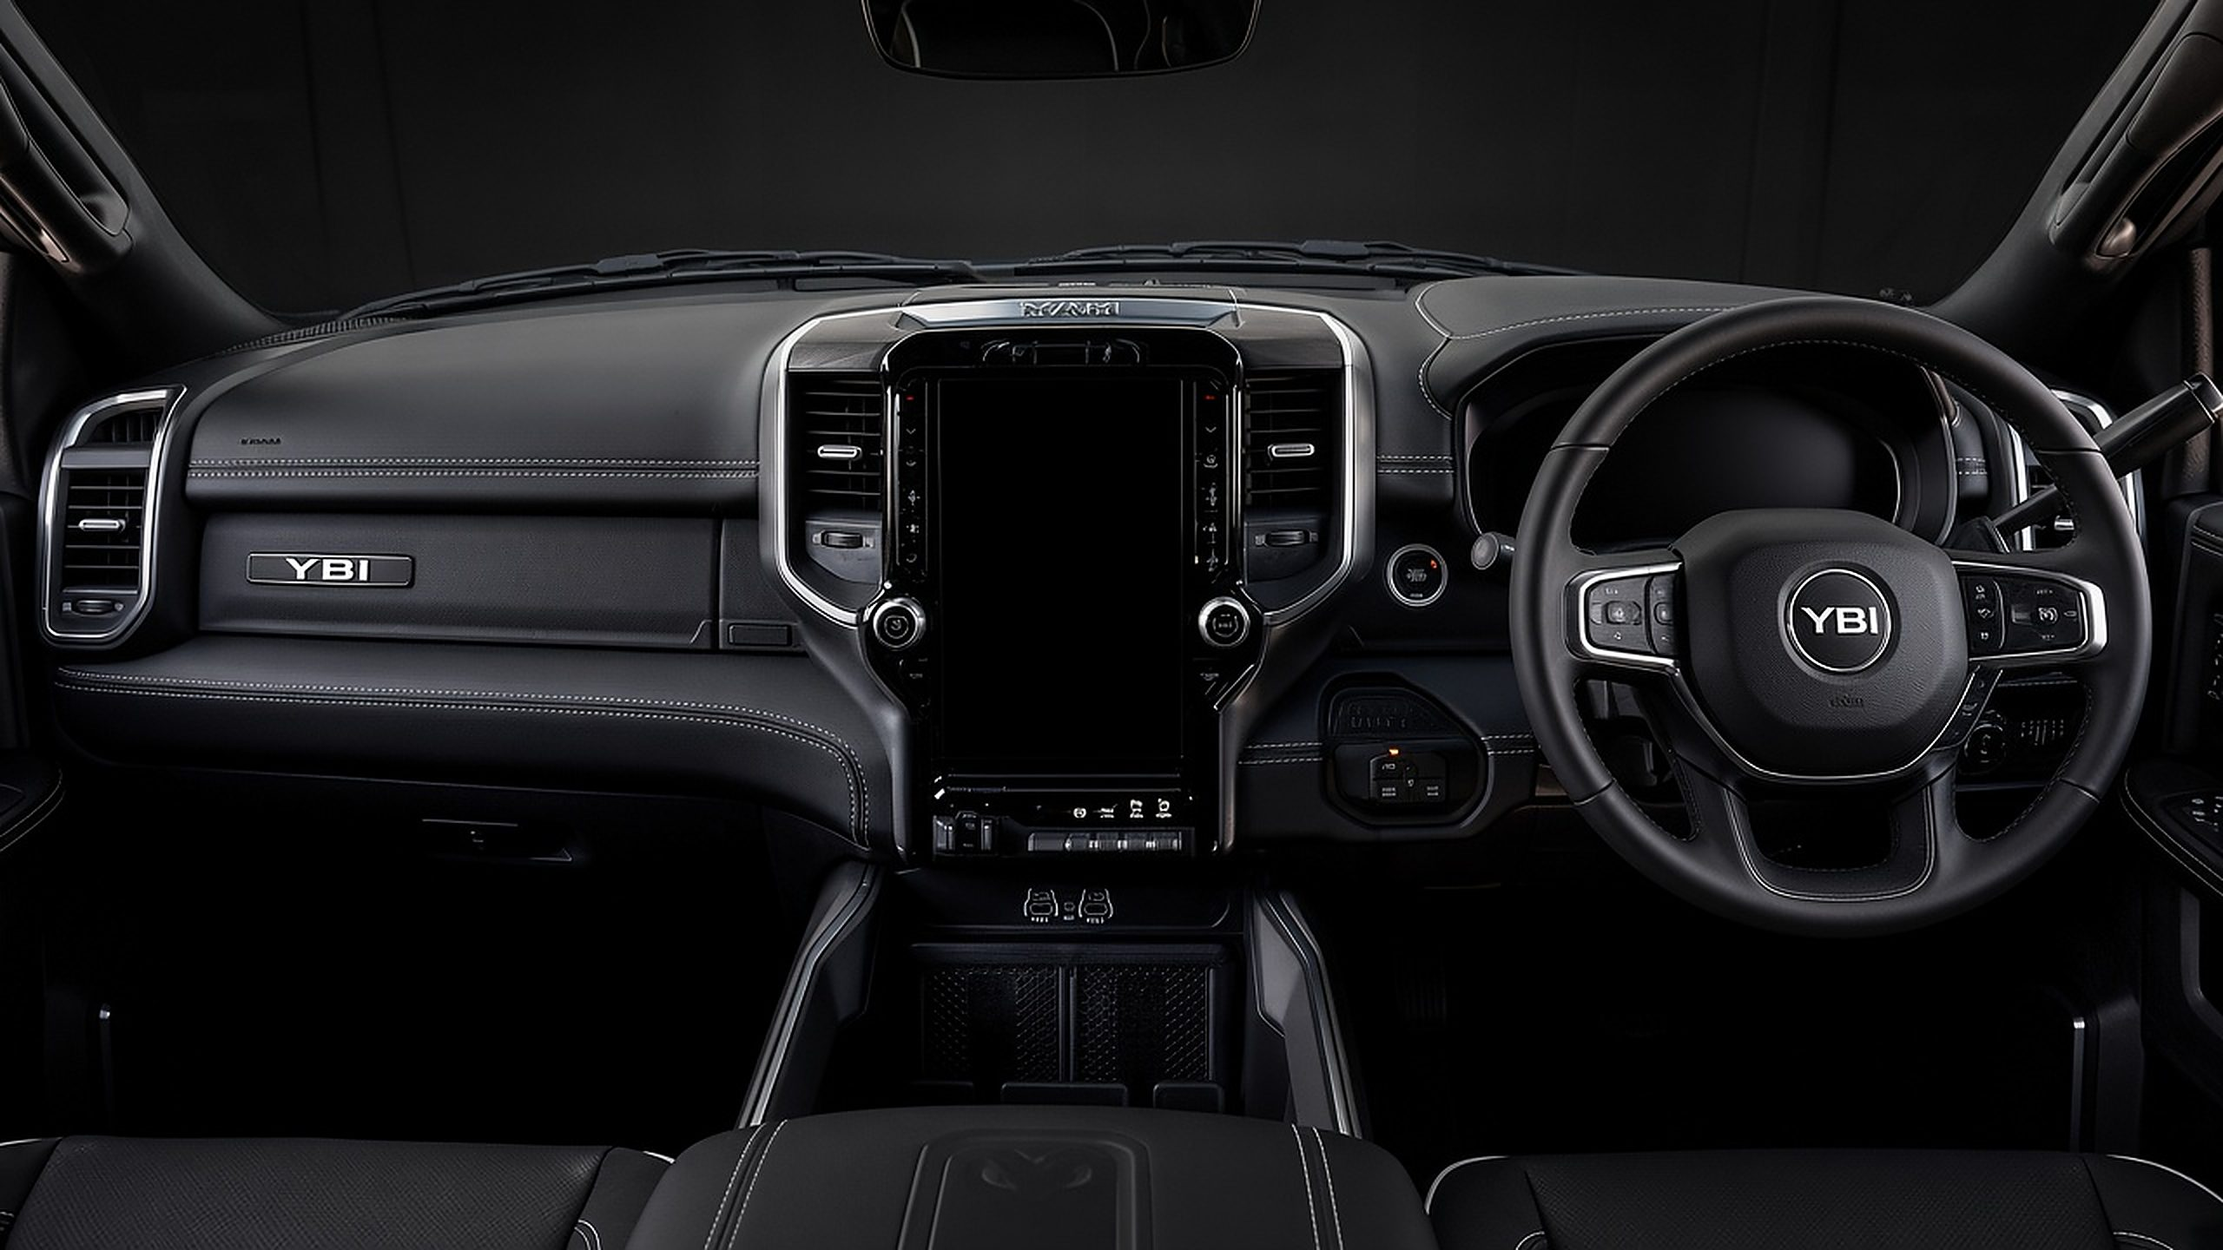
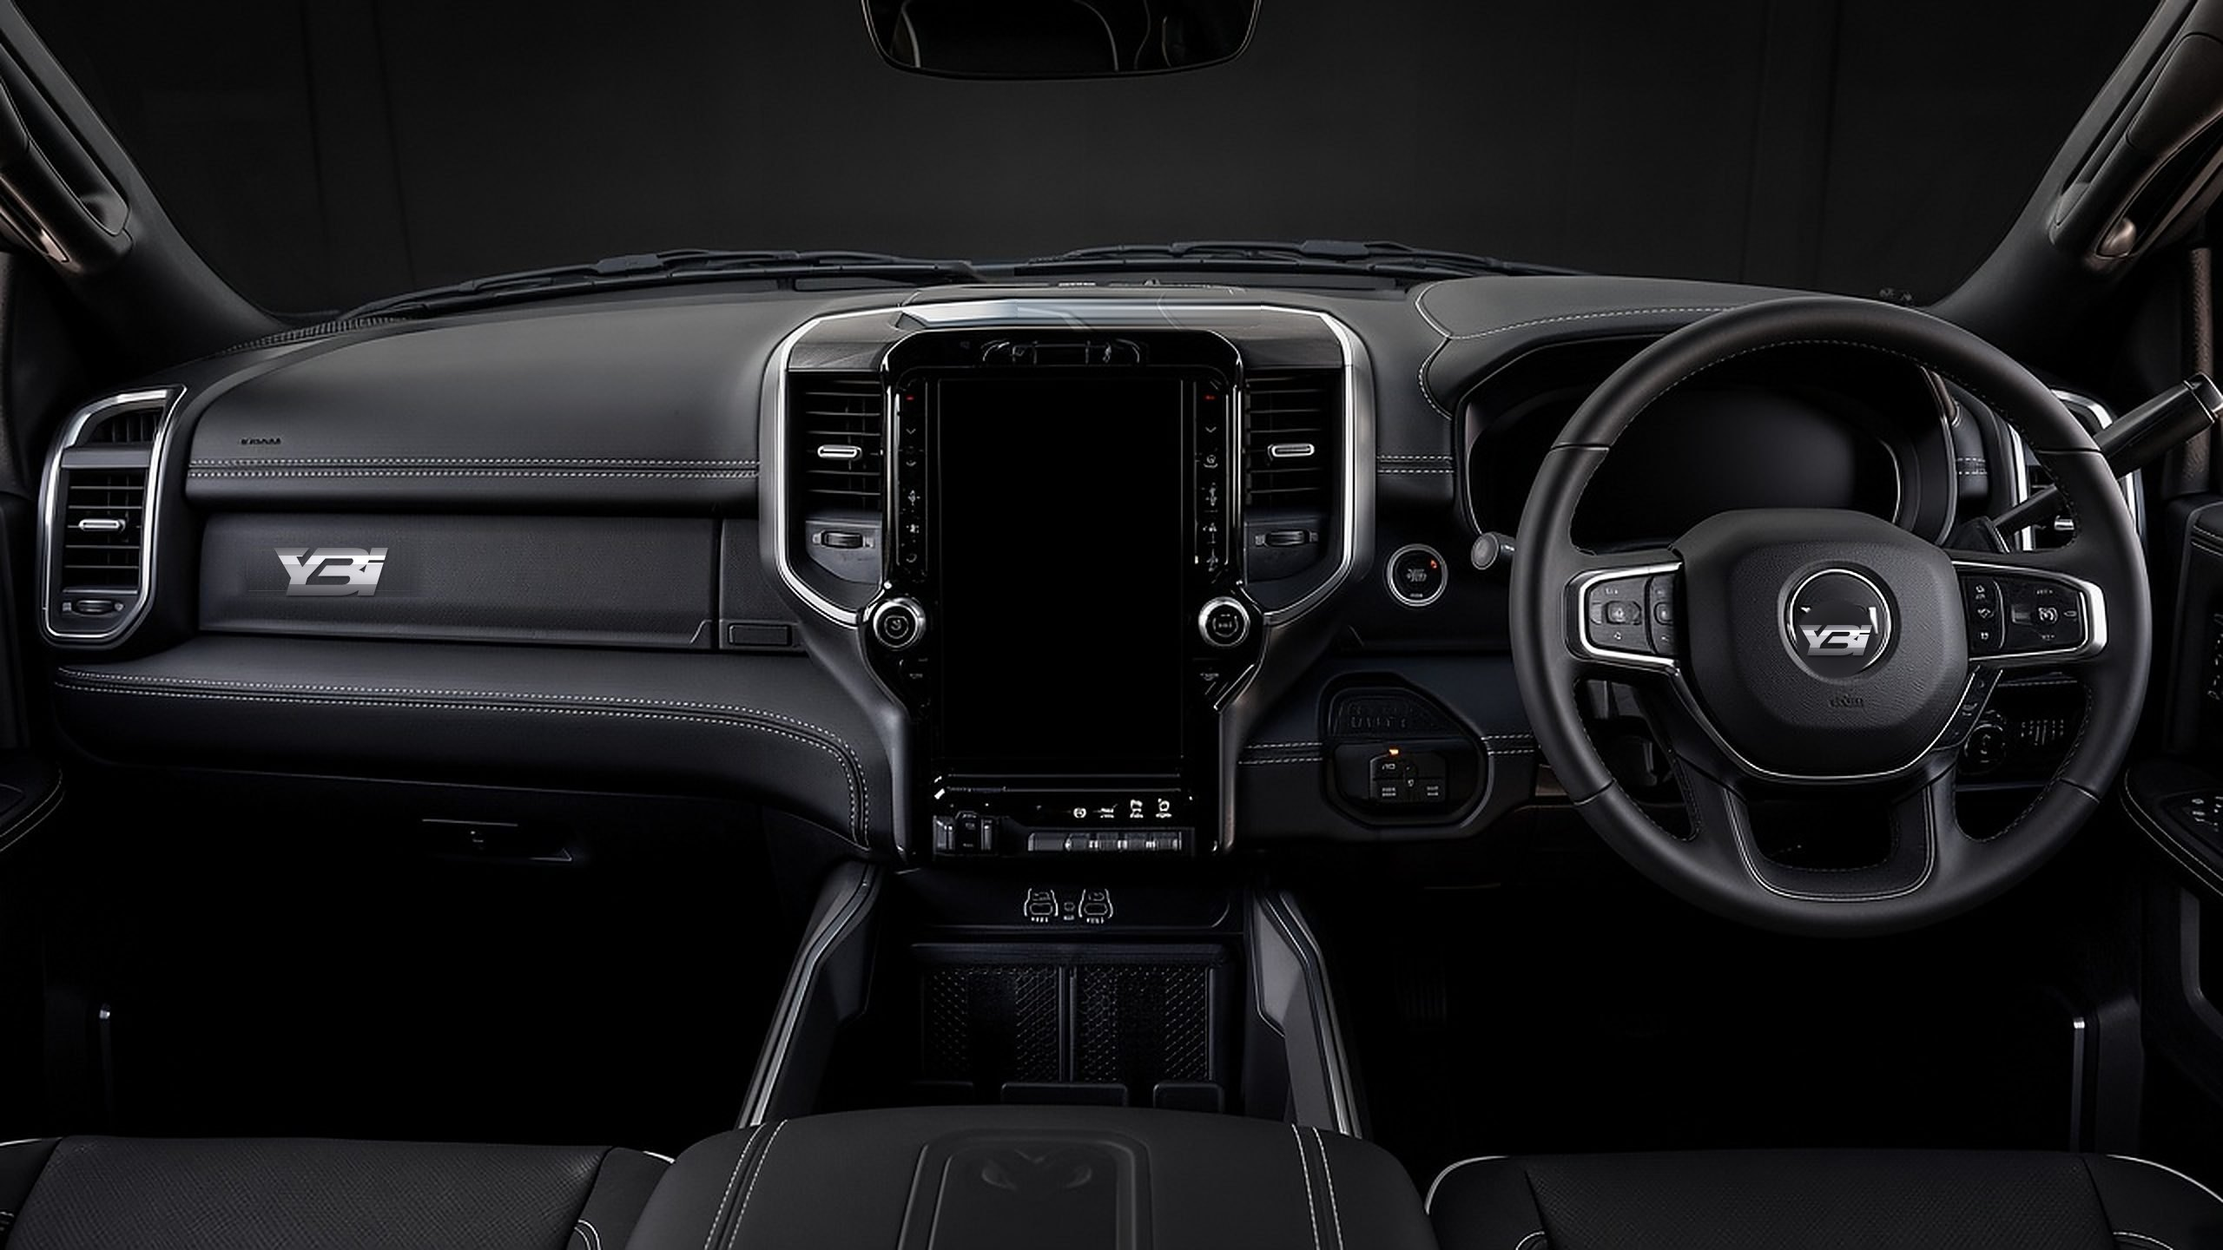
Fill the radio screen and use the real YBI mark.
Remove the plate above the screen, clear the typed badges from the dash photo, and place the header logo on the wheel, the passenger dash, and the display. The screen is a full layout with green for playing and red for live and mute.

Changed region(s): [[0.4375, 0.2188, 0.5625, 0.2812], [0.0938, 0.4375, 0.1875, 0.5], [0.8125, 0.4688, 0.8438, 0.5625]]

diff --git a/public/assets/app.css b/public/assets/app.css
@@ -499,15 +499,13 @@ body.is-halftone main{padding-bottom:0}
   .ht-tools .ht-garments{margin-left:0}
 }
 
-/* YBI Radio — photoreal dash, screen styled from ybicreative.com.au site.css
-   (black #09090a, cream #f3f1ec, silver #A7A9AC, Archivo + Work Sans). */
+/* YBI Radio — dash photo, screen in the YBI site type with green and red highlights. */
 body.is-radio .ftr{display:none}
 body.is-radio main{padding-bottom:0;height:100vh;overflow:hidden}
 body.rx-dock{padding-bottom:84px}
 .rx{position:relative;height:calc(100vh - var(--hdr));overflow:hidden;background:#09090a}
 .rx-scene{position:absolute;transform-origin:center center;will-change:transform}
 .rx-photo{width:100%;height:100%;object-fit:fill;pointer-events:none;user-select:none}
-.rx-badge{position:absolute;left:44.92%;top:22.5%;width:12.11%;height:4.17%;display:grid;place-items:center;background:linear-gradient(180deg,#e4e5e6 0%,#A7A9AC 42%,#6f7174 50%,#c8c9cb 100%);color:#09090a;font-family:var(--display);font-stretch:125%;font-weight:800;letter-spacing:.22em;line-height:1;font-size:1.15vw;pointer-events:none;box-shadow:0 1px 0 rgba(255,255,255,.35) inset}
 .rx-cluster{position:absolute;left:77.3%;top:29.9%;width:9.4%;height:8%;display:flex;flex-direction:column;align-items:center;justify-content:center;color:#f3f1ec;text-align:center;pointer-events:none;text-shadow:0 1px 2px rgba(0,0,0,.85)}
 .rx-cluster b{font-family:var(--display);font-stretch:125%;font-weight:800;font-size:1.15vw;line-height:.85}
 .rx-cluster span{font:500 .55vw/1 var(--sans);letter-spacing:.18em;text-transform:uppercase;color:#A7A9AC}
@@ -516,52 +514,59 @@ body.rx-dock{padding-bottom:84px}
 .rx-hot--vol{left:37.19%;top:47.22%;width:5.31%;height:9.44%;cursor:ns-resize}
 .rx-hot--tune{left:52.81%;top:47.22%;width:5.31%;height:9.44%;cursor:ew-resize}
 .rx-hot:focus-visible{outline:2px solid #A7A9AC;outline-offset:2px}
-.rx-screen{position:absolute;left:42.1875%;top:28.8889%;width:10.625%;height:33.3333%;container-type:size;overflow:hidden;border-radius:1.6cqw;background:#09090a;box-shadow:inset 0 0 0 1px rgba(243,241,236,.14)}
-.rx-screen::after{content:"";position:absolute;inset:0;pointer-events:none;background:linear-gradient(115deg,rgba(243,241,236,.07),transparent 32%)}
-.rx-ui{box-sizing:border-box;height:100%;display:flex;flex-direction:column;overflow:hidden;background:#09090a;color:#f3f1ec;font-family:var(--sans);padding:3.2cqw 3.4cqw 2.6cqw;gap:1.4cqw}
-.rx-bar{display:flex;align-items:center;gap:2cqw;font:500 clamp(8px,3.1cqw,14px)/1 var(--sans);letter-spacing:.14em;text-transform:uppercase;color:#a7a49e}
-.rx-brand{font-family:var(--display);font-stretch:125%;font-weight:800;letter-spacing:.16em;font-size:clamp(10px,3.6cqw,16px);color:#f3f1ec}
-.rx-clock,.rx-vol{font-variant-numeric:tabular-nums}
-.rx-sig{margin-left:auto;display:flex;align-items:flex-end;gap:.5cqw;height:3.4cqw}
-.rx-sig i{display:block;width:.7cqw;border-radius:1px;background:#A7A9AC;opacity:.28}
+.rx-screen{position:absolute;left:42.34%;top:29.17%;width:10.78%;height:33.06%;container-type:size;overflow:hidden;border-radius:2px;background:#09090a}
+.rx-screen::after{content:"";position:absolute;inset:0;pointer-events:none;background:linear-gradient(180deg,rgba(243,241,236,.05),transparent 18%)}
+.rx-ui{box-sizing:border-box;height:100%;display:flex;flex-direction:column;overflow:hidden;background:#09090a;color:#f3f1ec;font-family:var(--sans);padding:2.6cqw 2.4cqw 2.2cqw;gap:1.5cqw}
+.rx-bar{display:flex;align-items:center;gap:2cqw;min-height:5.2cqw;font:500 clamp(8px,2.8cqw,13px)/1 var(--sans);letter-spacing:.12em;text-transform:uppercase;color:#a7a49e}
+.rx-logo{height:4.6cqw;width:auto;max-width:34%;object-fit:contain;display:block}
+.rx-clock{font-variant-numeric:tabular-nums;margin-left:auto}
+.rx-sig{display:flex;align-items:flex-end;gap:.45cqw;height:3.2cqw}
+.rx-sig i{display:block;width:.65cqw;border-radius:1px;background:#6f6c67;opacity:.45}
 .rx-sig i:nth-child(1){height:30%}.rx-sig i:nth-child(2){height:50%}.rx-sig i:nth-child(3){height:75%}.rx-sig i:nth-child(4){height:100%}
-.rx-sig.is-live i{opacity:1;background:#A7A9AC}
-.rx-now{position:relative;display:flex;flex-direction:column;align-items:flex-start;text-align:left;min-width:0}
-.rx-kicker{margin:0;font:500 2.5cqw/1 var(--sans);letter-spacing:.28em;text-transform:uppercase;color:#a7a49e}
+.rx-sig.is-live i{opacity:1;background:#00C853}
+.rx-hero{position:relative;flex:1.05;min-height:0;display:flex;flex-wrap:wrap;align-content:space-between;gap:1cqw 1.6cqw;background:#0f0f11;border-radius:1.6cqw;padding:1.8cqw 1.6cqw 1.4cqw}
+.rx-art{width:22cqw;height:22cqw;border-radius:1.4cqw;display:grid;place-items:center;background:#151518;color:#f3f1ec;font-family:var(--display);font-stretch:125%;font-weight:800;font-size:7cqw;letter-spacing:-.03em;line-height:1}
+.rx-art.is-live{box-shadow:inset 0 0 0 1.5px #00C853;color:#00C853}
+.rx-copy{flex:1;min-width:0;padding-top:.4cqw}
+.rx-kicker{margin:0;font:500 2.3cqw/1 var(--sans);letter-spacing:.22em;text-transform:uppercase;color:#a7a49e}
 .rx-kicker .ol{color:#A7A9AC;-webkit-text-fill-color:#A7A9AC;filter:url(#ol-s)}
-.rx-now h1{margin:1cqw 0 0;max-width:100%;font-family:var(--display);font-stretch:125%;font-weight:800;font-size:clamp(11px,6.6cqw,36px);line-height:.92;letter-spacing:-.02em;text-transform:uppercase;color:#f3f1ec}
-.rx-sub{margin:.8cqw 0 0;color:#a7a49e;font:500 2.5cqw/1.2 var(--sans);letter-spacing:.12em;text-transform:uppercase}
-.rx-live{margin:1.2cqw 0 0;padding:.5cqw 1.6cqw;border-radius:999px;background:#A7A9AC;color:#09090a;font:600 2.3cqw/1 var(--sans);letter-spacing:.16em;text-transform:uppercase}
-.rx-star{position:absolute;top:0;right:0;background:none;border:0;color:#A7A9AC;font-size:4.2cqw;cursor:pointer;line-height:1;padding:0}
-.rx-star.is-on{color:#f3f1ec}
-.rx-meter{width:100%;height:4.2cqw;margin-top:1cqw}
+.rx-hero h1{margin:.6cqw 0 0;font-family:var(--display);font-stretch:125%;font-weight:800;font-size:clamp(12px,6.4cqw,28px);line-height:.9;letter-spacing:-.03em;text-transform:uppercase;color:#f3f1ec}
+.rx-sub{margin:.7cqw 0 0;color:#a7a49e;font:500 2.3cqw/1.15 var(--sans);letter-spacing:.1em;text-transform:uppercase}
+.rx-live{position:absolute;left:1.6cqw;bottom:calc(1.4cqw + 7.5cqw);margin:0;padding:.45cqw 1.4cqw;border-radius:999px;background:#E10600;color:#fff;font:700 2.1cqw/1 var(--sans);letter-spacing:.16em;text-transform:uppercase}
+.rx-star{position:absolute;top:1.2cqw;right:1.2cqw;background:none;border:0;color:#6f6c67;font-size:4cqw;cursor:pointer;line-height:1;padding:0}
+.rx-star.is-on{color:#00C853}
+.rx-meter{width:100%;height:6.4cqw;align-self:flex-end}
 .rx-tabs{display:flex;gap:1cqw}
-.rx-tabs button,.rx-controls button,.rx-preset{appearance:none;border:1px solid rgba(243,241,236,.22);color:#f3f1ec;background:#0f0f11;cursor:pointer}
-.rx-tabs button{flex:1;min-width:0;height:clamp(16px,6.2cqw,28px);border-radius:999px;font:500 clamp(8px,2.4cqw,12px)/1 var(--sans);letter-spacing:.06em;text-transform:uppercase}
-.rx-tabs button.is-on{background:#f3f1ec;border-color:#f3f1ec;color:#09090a}
-.rx-presets{flex:1;display:flex;flex-direction:column;gap:1cqw;min-height:0;overflow:auto;padding-right:.4cqw}
-.rx-preset{display:grid;grid-template-columns:auto auto 1fr;align-items:center;gap:1.4cqw;min-height:0;padding:1.3cqw 1.6cqw;border-radius:1.4cqw;text-align:left}
-.rx-preset i{font-style:normal;font:800 2.8cqw/1 var(--display);font-stretch:125%;color:#A7A9AC}
-.rx-preset small{font:500 2cqw/1 var(--sans);letter-spacing:.08em;color:#6f6c67}
-.rx-preset b{font:500 clamp(9px,2.7cqw,14px)/1.1 var(--sans);overflow:hidden;text-overflow:ellipsis;white-space:nowrap}
-.rx-preset.is-on{background:#f3f1ec;border-color:#f3f1ec;color:#09090a}
-.rx-preset.is-on i,.rx-preset.is-on small{color:#09090a}
-.rx-empty{color:#a7a49e;font-size:2.6cqw;margin:1cqw 0}
+.rx-tabs button,.rx-controls button,.rx-preset{appearance:none;border:1px solid rgba(243,241,236,.16);color:#f3f1ec;background:#0f0f11;cursor:pointer}
+.rx-tabs button{flex:1;min-width:0;height:clamp(16px,6cqw,28px);border-radius:999px;font:500 clamp(8px,2.3cqw,12px)/1 var(--sans);letter-spacing:.06em;text-transform:uppercase}
+.rx-tabs button.is-on{background:#00C853;border-color:#00C853;color:#09090a}
+.rx-presets{flex:1.15;min-height:0;display:grid;grid-template-columns:1fr 1fr;grid-auto-rows:minmax(22px,1fr);gap:1.1cqw;overflow:auto}
+.rx-preset{display:flex;flex-direction:column;align-items:flex-start;justify-content:center;gap:.3cqw;min-height:0;padding:1.2cqw 1.4cqw;border-radius:1.3cqw;text-align:left}
+.rx-preset i{font-style:normal;font:800 2.6cqw/1 var(--display);font-stretch:125%;color:#a7a49e}
+.rx-preset small{font:500 1.9cqw/1 var(--sans);letter-spacing:.08em;color:#6f6c67}
+.rx-preset b{font:500 clamp(8px,2.5cqw,13px)/1.05 var(--sans);max-width:100%;overflow:hidden;text-overflow:ellipsis;white-space:nowrap}
+.rx-preset.is-on{background:rgba(0,200,83,.16);border-color:#00C853;color:#f3f1ec}
+.rx-preset.is-on i,.rx-preset.is-on small{color:#00C853}
+.rx-empty{grid-column:1 / -1;color:#a7a49e;font-size:2.6cqw;margin:1cqw 0}
+.rx-volbar{position:relative;height:3.4cqw;border-radius:999px;background:#151518;overflow:hidden}
+.rx-volbar i{display:block;height:100%;width:0;background:#00C853;border-radius:inherit}
+.rx-volbar span{position:absolute;right:1.4cqw;top:50%;transform:translateY(-50%);font:600 2cqw/1 var(--sans);letter-spacing:.08em;color:#09090a;mix-blend-mode:difference}
 .rx-controls{display:flex;align-items:center;gap:1cqw}
-.rx-controls button{flex:1;height:clamp(20px,7.4cqw,34px);min-width:0;padding:0;border-radius:999px;font:500 clamp(8px,2.3cqw,12px)/1 var(--sans);letter-spacing:.04em;text-transform:uppercase}
-.rx-controls .rx-play{flex:0 0 7.4cqw;background:#f3f1ec;border-color:#f3f1ec;color:#09090a;font-size:2.8cqw;letter-spacing:0;text-transform:none}
-.rx-controls button.is-on{background:#A7A9AC;border-color:#A7A9AC;color:#09090a}
+.rx-controls button{flex:1;height:clamp(20px,7.2cqw,34px);min-width:0;padding:0;border-radius:999px;font:500 clamp(8px,2.2cqw,12px)/1 var(--sans);letter-spacing:.04em;text-transform:uppercase}
+.rx-controls .rx-play{flex:0 0 7.2cqw;background:#f3f1ec;border-color:#f3f1ec;color:#09090a;font-size:2.8cqw;letter-spacing:0;text-transform:none}
+.rx-controls .rx-play.is-live{background:#00C853;border-color:#00C853;color:#09090a}
+.rx-controls button.is-on{background:#00C853;border-color:#00C853;color:#09090a}
+.rx-controls [data-mute].is-on{background:#E10600;border-color:#E10600;color:#fff}
 .rx-mini{position:fixed;z-index:150;left:12px;right:12px;bottom:12px;display:flex;align-items:center;gap:12px;padding:8px 10px 8px 14px;border-radius:999px;border:1px solid rgba(243,241,236,.22);background:rgba(9,9,10,.92);box-shadow:0 12px 40px rgba(0,0,0,.45)}
 .rx-mini-lamp{width:10px;height:10px;border-radius:50%;background:#6f6c67;flex:none}
-.rx-mini-lamp.is-live{background:#A7A9AC;box-shadow:0 0 10px rgba(167,169,172,.7)}
+.rx-mini-lamp.is-live{background:#00C853;box-shadow:0 0 10px rgba(0,200,83,.7)}
 .rx-mini-name{flex:1;min-width:0;overflow:hidden;text-overflow:ellipsis;white-space:nowrap;text-decoration:none;font:500 .72rem/1 var(--sans);letter-spacing:.14em;text-transform:uppercase;color:#f3f1ec}
 .rx-transport--sm{width:36px;height:36px;border-radius:50%;border:0;background:#f3f1ec;color:#09090a;cursor:pointer;font-size:.85rem}
 .rx-mini-vol{display:flex;align-items:center;width:120px}
 .rx-mini-vol .sr{position:absolute;width:1px;height:1px;overflow:hidden;clip:rect(0 0 0 0)}
-.rx-mini-vol input{width:100%;accent-color:#A7A9AC}
+.rx-mini-vol input{width:100%;accent-color:#00C853}
 @media (max-width:720px){
   .rx-mini-vol{width:72px}
-  .rx-badge{font-size:2.4vw}
   .rx-cluster b{font-size:2.4vw}
   .rx-cluster span{font-size:1.3vw}
   .rx-cluster em{font-size:1.15vw}

diff --git a/public/assets/radio.js b/public/assets/radio.js
@@ -217,6 +217,8 @@ function setVolume(next) {
   const root = document.querySelector('[data-rx]');
   const vol = root && $('[data-vol]', root);
   if (vol) vol.textContent = `${Math.round(volume * 100)}`;
+  const fill = root && $('[data-volfill]', root);
+  if (fill) fill.style.width = `${Math.round(volume * 100)}%`;
   const volKnob = root && $('[data-volknob]', root);
   if (volKnob) volKnob.setAttribute('aria-valuenow', String(Math.round(volume * 100)));
   const mute = root && $('[data-mute]', root);
@@ -273,7 +275,7 @@ function drawMeter(canvas, t) {
     const bh = Math.max(3, v * h);
     const x = i * (bw + gap);
     const y = h - bh;
-    g.fillStyle = v > 0.72 ? '#f3f1ec' : '#A7A9AC';
+    g.fillStyle = v > 0.78 ? '#d8ffe8' : '#00C853';
     g.globalAlpha = playing ? 0.95 : 0.45;
     g.fillRect(x, y, bw, bh);
   }
@@ -355,8 +357,15 @@ function paintConsole() {
   live.hidden = !playing;
   live.textContent = scanning ? 'Live · Scan' : 'Live';
   $('[data-clock]', root).textContent = clock();
+  const art = $('[data-art]', root);
+  if (art) {
+    art.textContent = current ? mark(current) : 'YB';
+    art.classList.toggle('is-live', playing);
+  }
   const vol = $('[data-vol]', root);
   if (vol) vol.textContent = muted ? 'Mute' : `${Math.round(volume * 100)}`;
+  const fill = $('[data-volfill]', root);
+  if (fill) fill.style.width = `${Math.round((muted ? 0 : volume) * 100)}%`;
   $('[data-sig]', root).classList.toggle('is-live', playing && !muted);
   $('[data-presets]', root).innerHTML = presetsHtml();
   root.querySelectorAll('[data-bank]').forEach(btn => {
@@ -367,6 +376,7 @@ function paintConsole() {
   const play = $('[data-play]', root);
   play.textContent = playing ? '❚❚' : '▶';
   play.setAttribute('aria-label', playing ? 'Pause' : 'Play');
+  play.classList.toggle('is-live', playing);
   const scan = $('[data-scan]', root);
   scan.classList.toggle('is-on', scanning);
   scan.setAttribute('aria-pressed', scanning ? 'true' : 'false');
@@ -388,6 +398,7 @@ function paintConsole() {
 }
 
 const BANK_SHORT = { Favourites: 'Fav', National: 'Nat', Melbourne: 'Mel', Genre: 'Gen' };
+const GLASS = { x: 0.4234, y: 0.2917, w: 0.1078, h: 0.3306 };
 
 function applyPan(root) {
   const scene = $('[data-scene]', root);
@@ -405,18 +416,18 @@ function placeScene(root) {
   const narrow = vw < 760;
   let w, h, left, top;
   if (narrow) {
-    w = (vw * 0.9) / 0.10625;
+    w = (vw * 0.92) / GLASS.w;
     h = w * 9 / 16;
-    left = vw / 2 - (0.421875 + 0.053125) * w;
-    top = vh * 0.47 - (0.288889 + 0.166667) * h;
+    left = vw / 2 - (GLASS.x + GLASS.w / 2) * w;
+    top = vh * 0.46 - (GLASS.y + GLASS.h / 2) * h;
     root._sceneScale = 1;
   } else {
-    const s = Math.max(vw / 16, vh / 9);
+    const s = Math.max(vw / 16, vh / 9) * 1.14;
     w = 16 * s;
     h = 9 * s;
     left = (vw - w) / 2;
     top = (vh - h) / 2;
-    root._sceneScale = window.matchMedia('(prefers-reduced-motion: reduce)').matches ? 1 : 1.04;
+    root._sceneScale = 1;
   }
   scene.style.width = `${w}px`;
   scene.style.height = `${h}px`;
@@ -460,7 +471,6 @@ export async function radioPage() {
   app.innerHTML = `<div class="rx" data-rx>
     <div class="rx-scene" data-scene>
       <img class="rx-photo" alt="" src="${B}/assets/img/ybi-dash.jpg">
-      <div class="rx-badge" aria-hidden="true">YBI</div>
       <div class="rx-cluster" aria-hidden="true">
         <b>0</b>
         <span>km/h</span>
@@ -471,23 +481,26 @@ export async function radioPage() {
       <div class="rx-screen">
         <div class="rx-ui" data-ui>
           <header class="rx-bar">
-            <span class="rx-brand">YBI</span>
+            <img class="rx-logo" alt="YBI" src="${B}/assets/img/logo-white.png">
             <span class="rx-clock" data-clock>--:--</span>
-            <span class="rx-vol" data-vol>80</span>
             <span class="rx-sig" data-sig aria-hidden="true"><i></i><i></i><i></i><i></i></span>
           </header>
-          <section class="rx-now">
-            <p class="rx-kicker">On <span class="ol">air</span></p>
-            <h1 data-led>YBI Radio</h1>
-            <p class="rx-sub" data-sub>Choose a preset</p>
+          <section class="rx-hero">
+            <div class="rx-art" data-art>YB</div>
+            <div class="rx-copy">
+              <p class="rx-kicker">On <span class="ol">air</span></p>
+              <h1 data-led>YBI Radio</h1>
+              <p class="rx-sub" data-sub>Choose a preset</p>
+            </div>
             <p class="rx-live" data-live hidden>Live</p>
             <button type="button" class="rx-star" data-fav aria-label="Favourite" aria-pressed="false">☆</button>
-            <canvas class="rx-meter" data-meter width="320" height="24" aria-hidden="true"></canvas>
+            <canvas class="rx-meter" data-meter width="320" height="36" aria-hidden="true"></canvas>
           </section>
           <div class="rx-tabs" role="tablist" aria-label="Bands">
             ${BANKS.map(name => `<button type="button" role="tab" data-bank="${esc(name)}" aria-label="${esc(name)}">${esc(BANK_SHORT[name] || name)}</button>`).join('')}
           </div>
           <div class="rx-presets" data-presets></div>
+          <div class="rx-volbar" aria-hidden="true"><i data-volfill></i><span data-vol>80</span></div>
           <div class="rx-controls">
             <button type="button" data-seek="-1" aria-label="Previous station">‹‹</button>
             <button type="button" class="rx-play" data-play aria-label="Play">▶</button>
